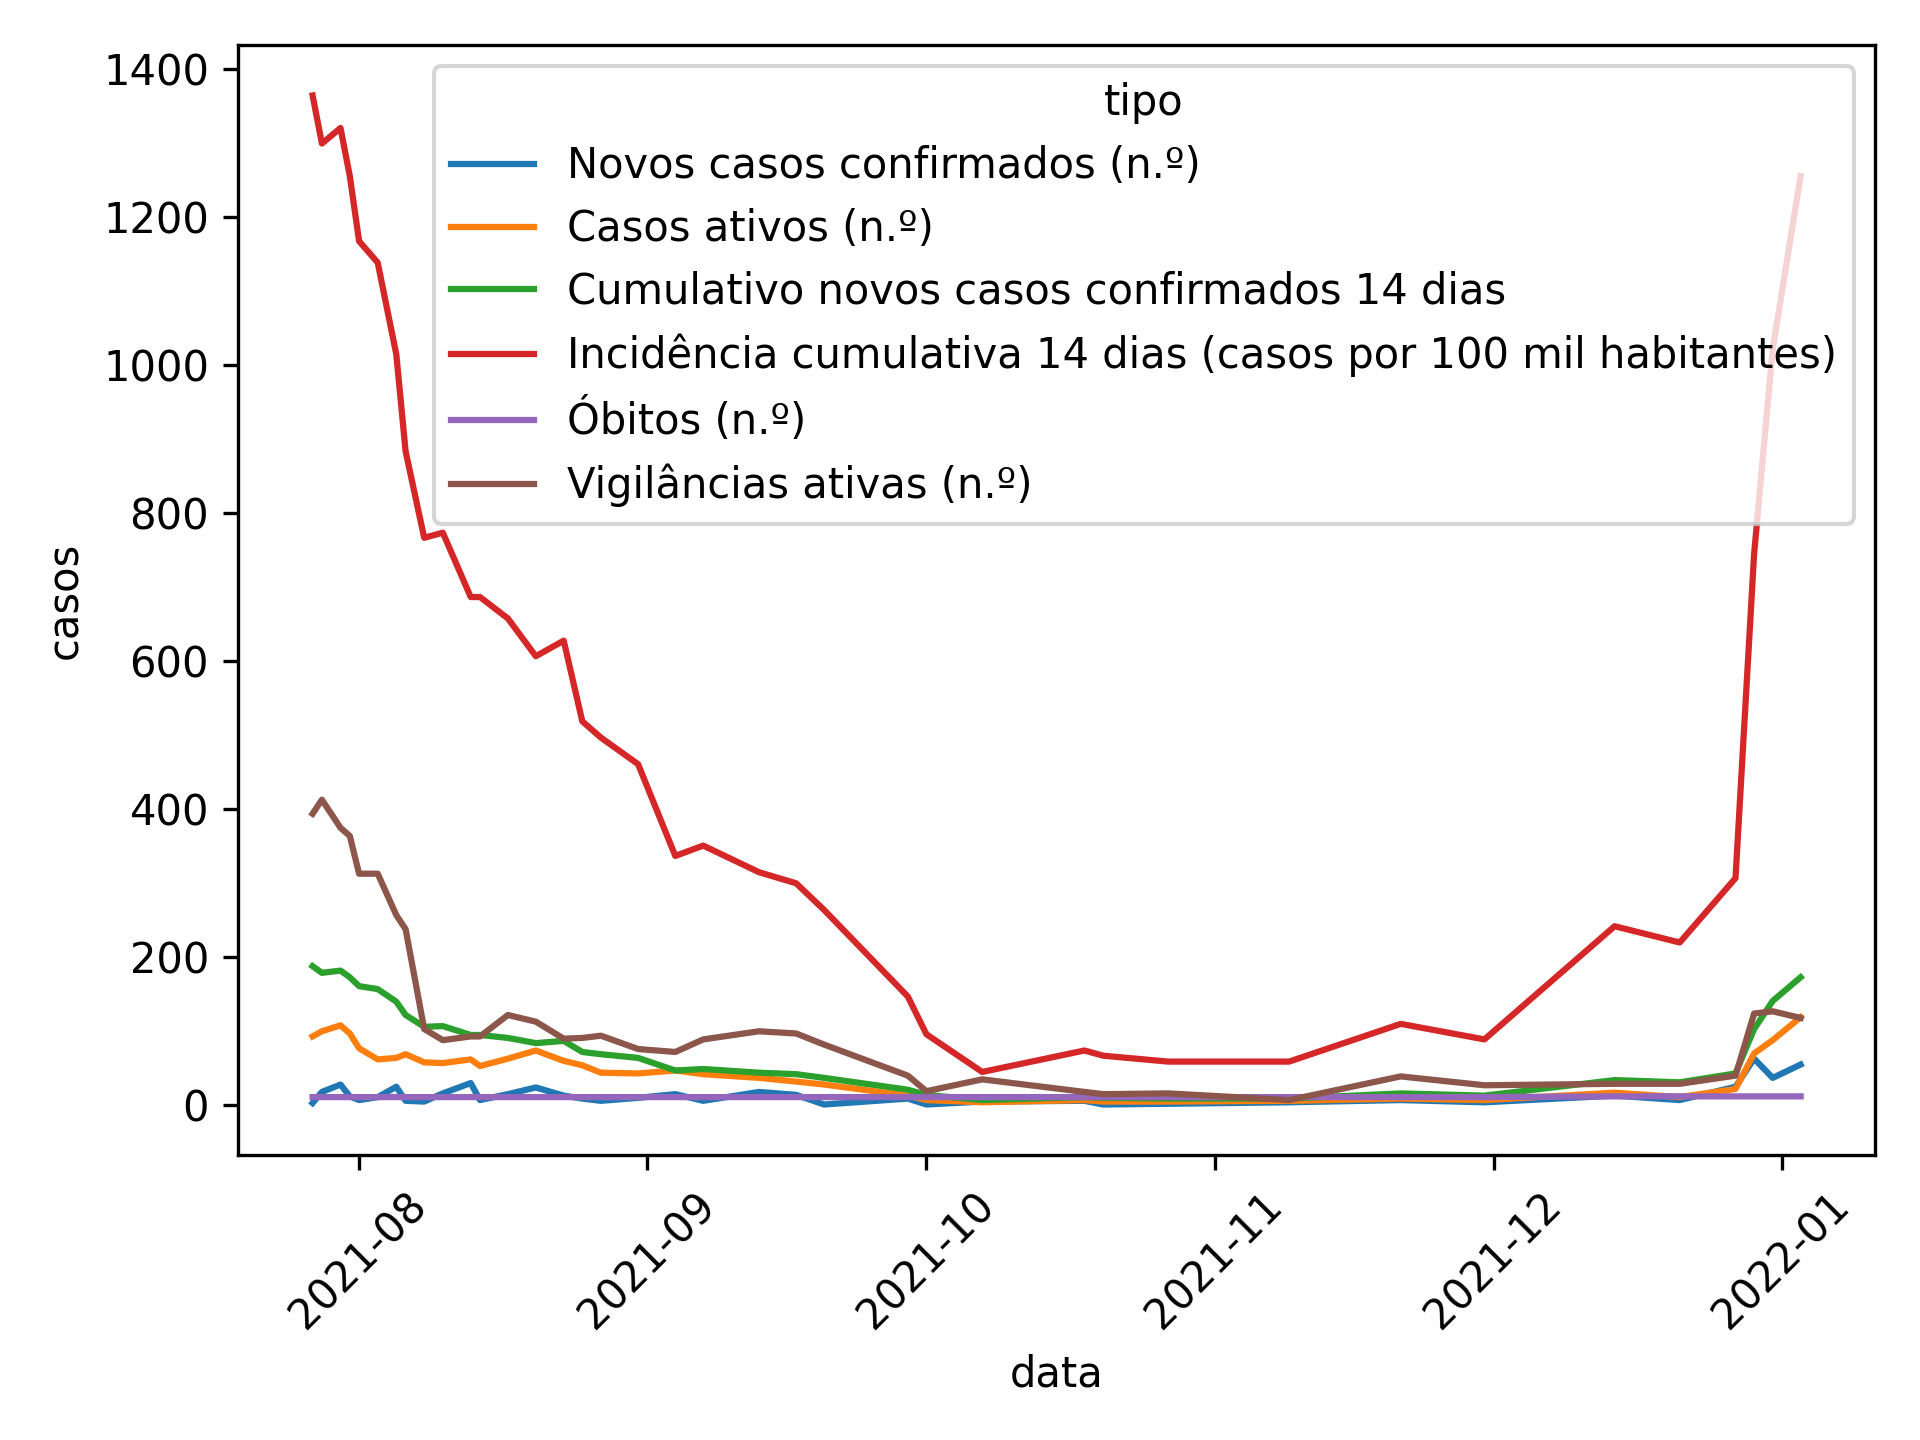
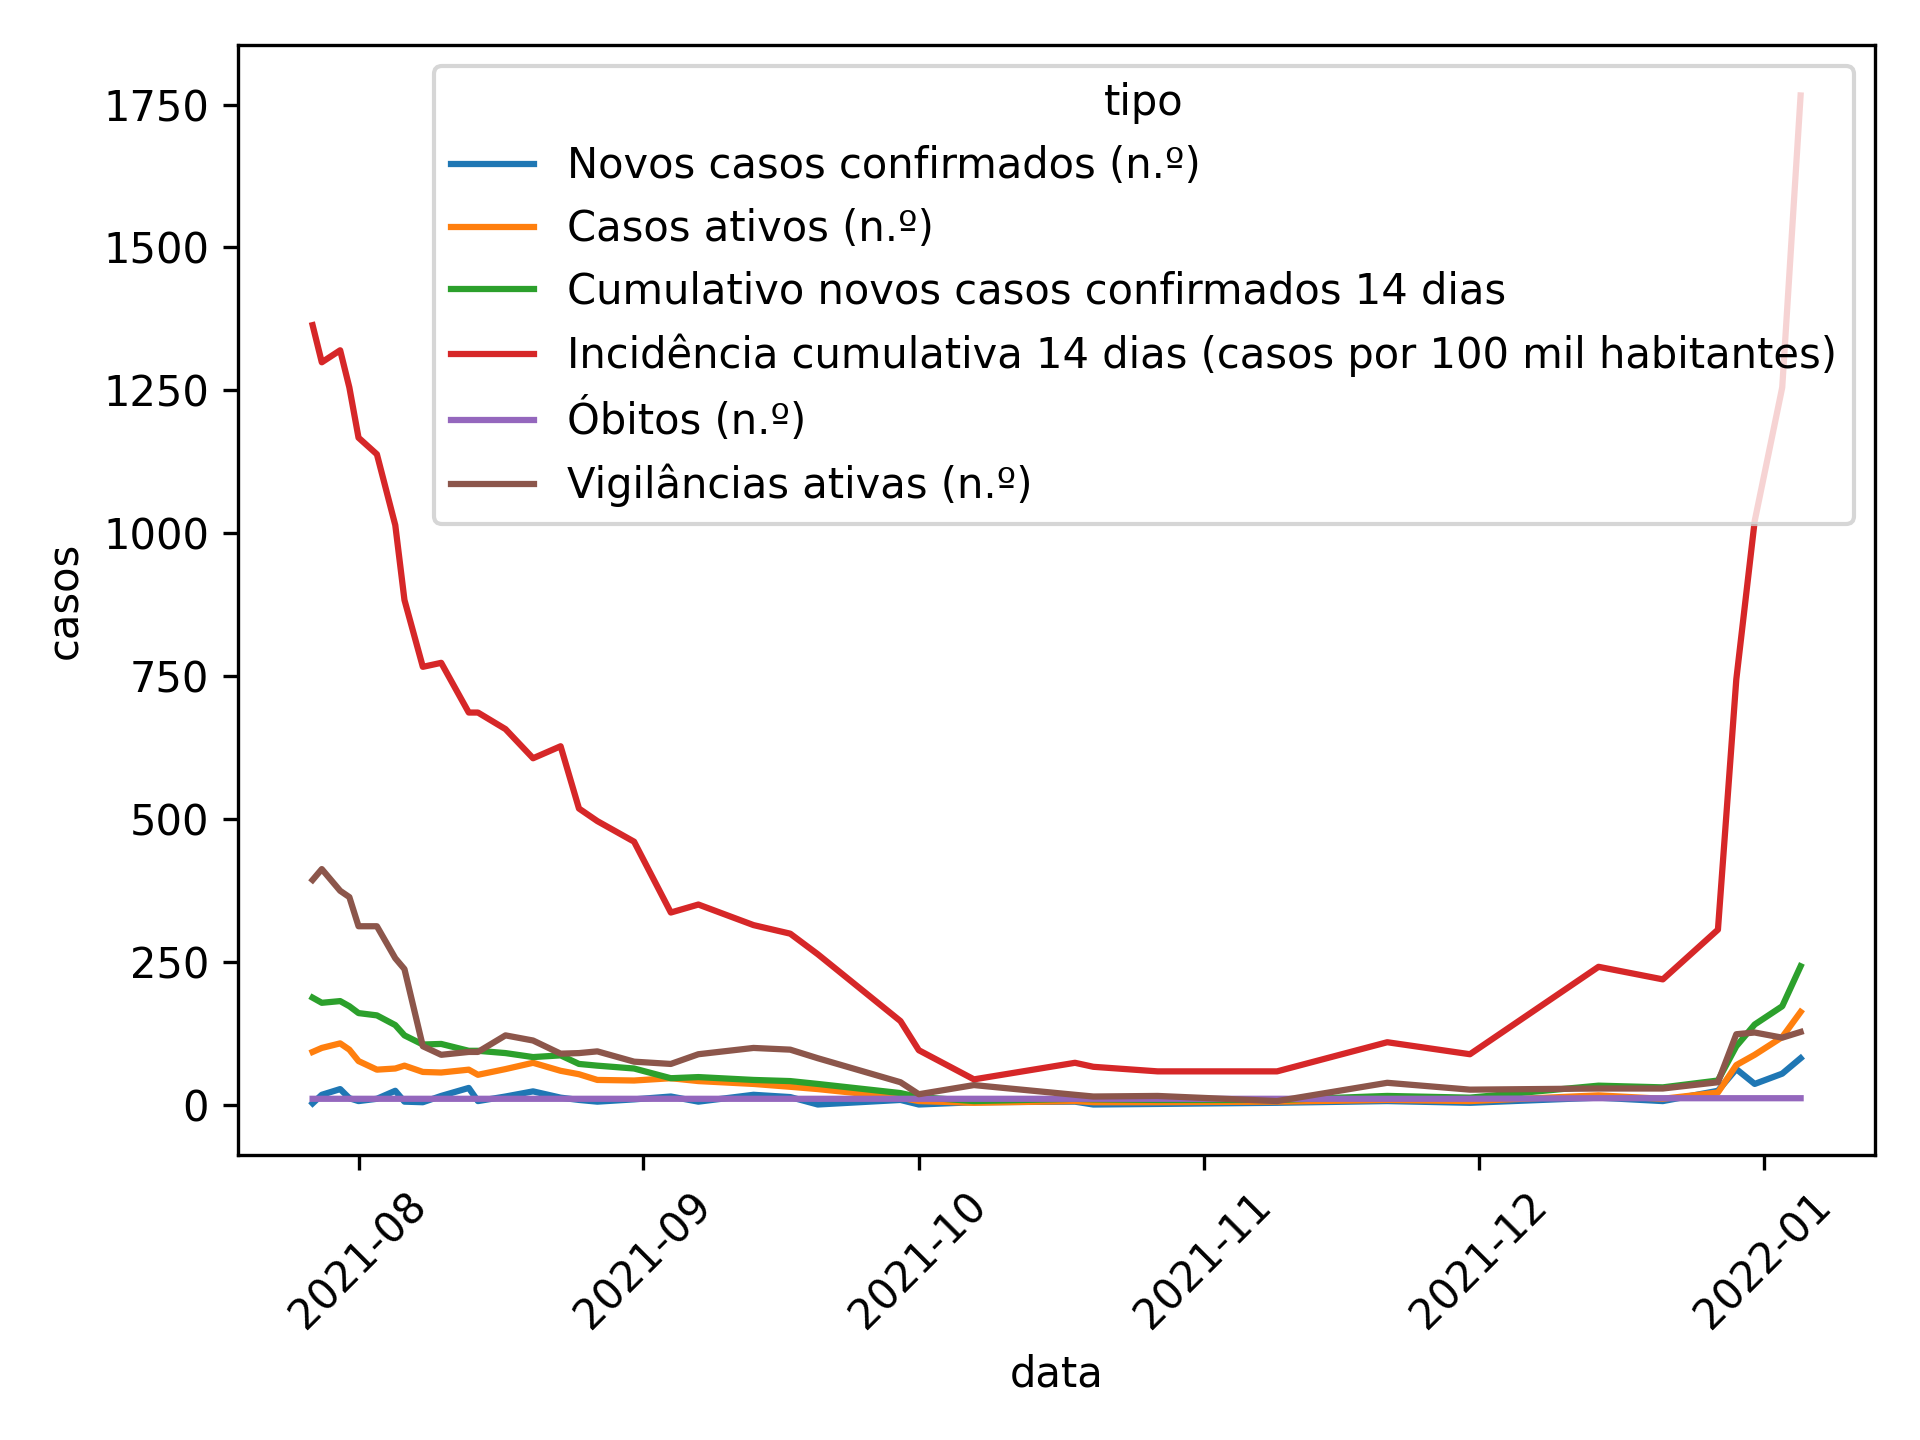
Apply automatic changes

diff --git a/README.md b/README.md
@@ -6,7 +6,6 @@
 
 | data       |   Novos casos confirmados (n.º) |   Casos ativos (n.º) |   Cumulativo novos casos confirmados 14 dias |   Incidência cumulativa 14 dias (casos por 100 mil habitantes) |   Óbitos (n.º) |   Vigilâncias ativas (n.º) |
 |:-----------|--------------------------------:|---------------------:|---------------------------------------------:|---------------------------------------------------------------:|---------------:|---------------------------:|
-| 29-09-2021 |                               8 |                   12 |                                           20 |                                                            146 |             10 |                         39 |
 | 01-10-2021 |                               0 |                    6 |                                           13 |                                                             95 |             10 |                         18 |
 | 07-10-2021 |                               4 |                    3 |                                            6 |                                                             44 |             10 |                         34 |
 | 18-10-2021 |                               5 |                    6 |                                           10 |                                                             73 |             10 |                         17 |
@@ -21,3 +20,4 @@
 | 29-12-2021 |                              62 |                   69 |                                          102 |                                                            744 |             11 |                        123 |
 | 31-12-2021 |                              36 |                   87 |                                          140 |                                                           1021 |             11 |                        126 |
 | 03-01-2022 |                              54 |                  118 |                                          172 |                                                           1255 |             11 |                        117 |
+| 05-01-2022 |                              81 |                  162 |                                          242 |                                                           1766 |             11 |                        127 |
